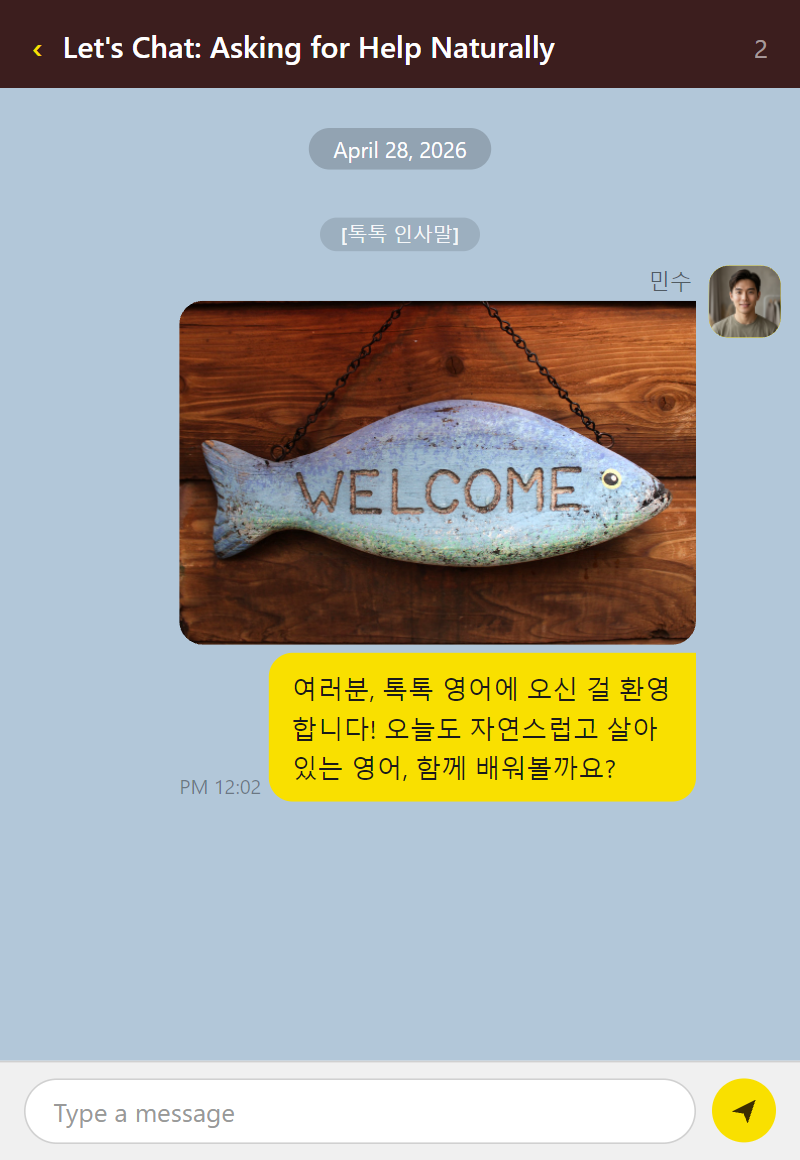
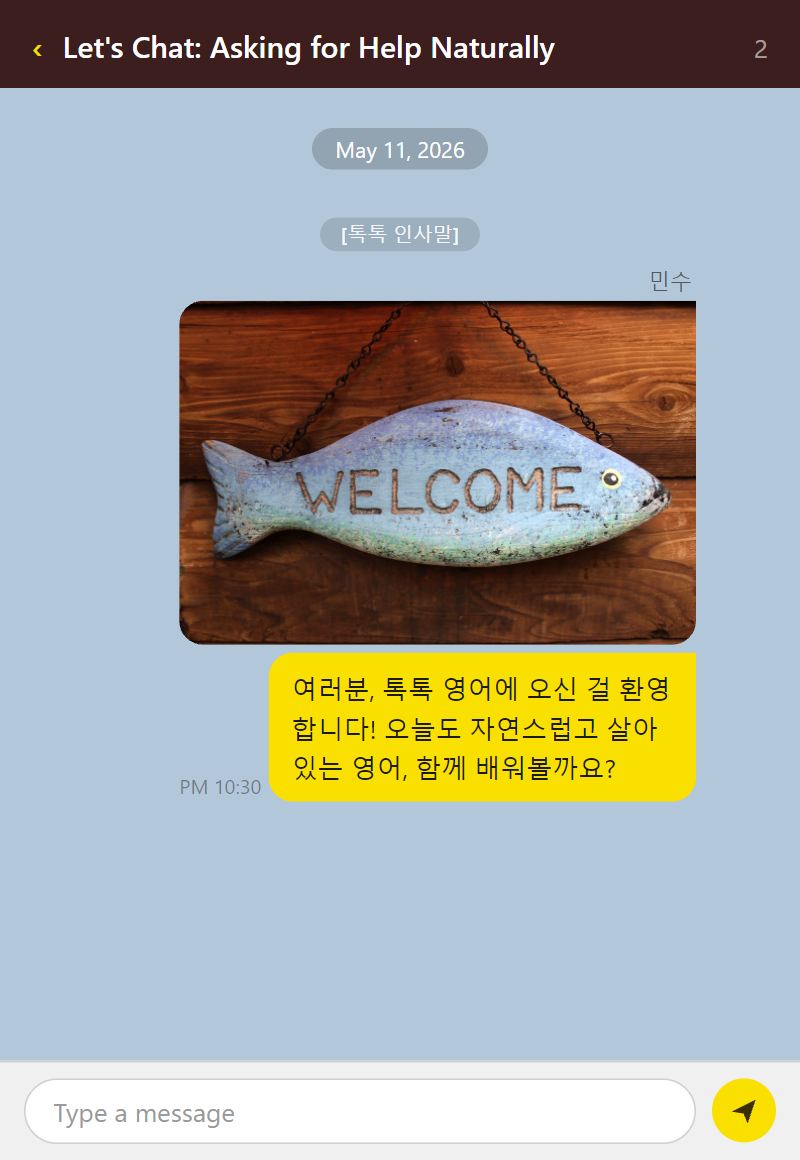
Refactor audio playback logic to streamline episode audio handling and improve dialogue timing

Changed region(s): [[0.875, 0.2172, 1.0, 0.3103], [0.4062, 0.1241, 0.5938, 0.1552], [0.2812, 0.6517, 0.3125, 0.6828]]

diff --git a/fixtures/preview/output.html b/fixtures/preview/output.html
@@ -161,7 +161,7 @@ const body = document.getElementById('chat-body');
 })();
 const ME = "host_1";
 const SHOW_AVATAR = true;
-const HOST_MAP = {"host_1":{"letter":"민","bg":"#f9e000","fg":"#3c2e00","image":"file:///C:/Workspace/Personal/playchat/resources/avartar/host_male1.png"},"host_2":{"letter":"A","bg":"#ff7043","fg":"#fff","image":"file:///C:/Workspace/Personal/playchat/resources/avartar/host_female1.png"}};
+const HOST_MAP = {"host_1":{"letter":"민","bg":"#f9e000","fg":"#3c2e00","image":"","bubbleBg":"#f9e000","bubbleFg":"#1a1a1a"},"host_2":{"letter":"A","bg":"#ff7043","fg":"#fff","image":"","bubbleBg":"#fff","bubbleFg":"#1a1a1a"}};
 
 var _virtualClockMs = Date.now();
 function getTime(audioDurationSec) {
@@ -178,8 +178,8 @@ function getTime(audioDurationSec) {
 
 function avatarHTML(d) {
   var info = HOST_MAP[d.speaker] || { letter: d.name.charAt(0), bg: '#999', fg: '#fff', image: '' };
-  var image = info.image ? '<img class="avatar-image" src="' + info.image + '" onerror="this.remove()" />' : '';
-  return '<div class="avatar-col"><div class="avatar" style="background:' + info.bg + ';color:' + info.fg + '"><span class="avatar-letter">' + info.letter + '</span>' + image + '</div></div>';
+  if (!info.image) return '<div class="avatar-col"><div class="avatar"></div></div>';
+  return '<div class="avatar-col"><div class="avatar"><img class="avatar-image" src="' + info.image + '" onerror="this.remove()" /></div></div>';
 }
 
 function appendMsg(d) {
@@ -201,9 +201,11 @@ function appendMsg(d) {
   html += '<div class="msg-col' + (side === 'right' ? ' right' : '') + '">';
   if (SHOW_AVATAR) html += '<div class="sender-name' + (side === 'right' ? ' right' : '') + '">' + d.name + '</div>';
   if (d.image) html += '<img class="bubble-img ' + side + '" src="' + d.image + '" onerror="this.remove()" />';
+  var bInfo = HOST_MAP[d.speaker] || { bubbleBg: '', bubbleFg: '' };
+  var bStyle = bInfo.bubbleBg ? 'background:' + bInfo.bubbleBg + ';color:' + bInfo.bubbleFg : '';
   html +=
       '<div class="bubble-wrap' + (side === 'right' ? ' right' : '') + '">' +
-        '<div class="bubble ' + side + ' pop">' + d.text + '</div>' +
+        '<div class="bubble ' + side + ' pop" style="' + bStyle + '">' + d.text + '</div>' +
         '<span class="time-stamp">' + t + '</span>' +
       '</div>' +
     '</div>';
@@ -214,11 +216,50 @@ function appendMsg(d) {
 }
 
 
-const dialogues = [{"speaker":"host_1","name":"민수","text":"여러분, 톡톡 영어에 오신 걸 환영합니다! 오늘도 자연스럽고 살아있는 영어, 함께 배워볼까요?","audio":"https://storage.googleapis.com/maplesoup-stroage-bucket/f/podcast/cc244236af424699/segment_0000.mp3","audioRaw":"https://storage.googleapis.com/maplesoup-stroage-bucket/f/podcast/cc244236af424699/segment_0000.mp3","section":"[톡톡 인사말]","audioDurationSec":8.208,"image":"file:///C:/Workspace/Personal/playchat/_audio_cache/85e1894b6eae4e46.jpg","imageRaw":"https://live.staticflickr.com/5145/5851641484_36762ab9af_b.jpg"},{"speaker":"host_2","name":"Ashley","text":"Hi everyone! Today's phrase is all about asking for help in a very natural way. Let's get started!","audio":"https://storage.googleapis.com/maplesoup-stroage-bucket/f/podcast/c771c9018d984cbc/segment_0001.mp3","audioRaw":"https://storage.googleapis.com/maplesoup-stroage-bucket/f/podcast/c771c9018d984cbc/segment_0001.mp3","section":"[톡톡 인사말]","audioDurationSec":5.568,"image":"","imageRaw":""},{"speaker":"host_1","name":"민수","text":"Oh, 제일 필요한 표현인데요! 오늘의 표현은 'Could you give me a hand?'예요.","audio":"https://storage.googleapis.com/maplesoup-stroage-bucket/f/podcast/4d268c8faf774183/segment_0002.mp3","audioRaw":"https://storage.googleapis.com/maplesoup-stroage-bucket/f/podcast/4d268c8faf774183/segment_0002.mp3","section":"[톡톡 인사말]","audioDurationSec":5.664,"image":"","imageRaw":""},{"speaker":"host_1","name":"민수","text":"Ashley, 오늘 짐 옮기는데 좀 도와줄 수 있어요? 무거워서 혼자 못 하겠어요.","audio":"https://storage.googleapis.com/maplesoup-stroage-bucket/f/podcast/ee016cde93ea4f05/segment_0004.mp3","audioRaw":"https://storage.googleapis.com/maplesoup-stroage-bucket/f/podcast/ee016cde93ea4f05/segment_0004.mp3","section":"[실전 영어 상황극]","audioDurationSec":6.096,"image":"","imageRaw":""},{"speaker":"host_2","name":"Ashley","text":"Sure! That's when you can say, 'Could you give me a hand with this?' Let me help you.","audio":"https://storage.googleapis.com/maplesoup-stroage-bucket/f/podcast/803591e8239d4493/segment_0005.mp3","audioRaw":"https://storage.googleapis.com/maplesoup-stroage-bucket/f/podcast/803591e8239d4493/segment_0005.mp3","section":"[실전 영어 상황극]","audioDurationSec":3.888,"image":"","imageRaw":""}];
+const dialogues = [{"speaker":"host_1","name":"민수","text":"여러분, 톡톡 영어에 오신 걸 환영합니다! 오늘도 자연스럽고 살아있는 영어, 함께 배워볼까요?","audio":"https://storage.googleapis.com/maplesoup-stroage-bucket/f/podcast/cc244236af424699/segment_0000.mp3","audioRaw":"https://storage.googleapis.com/maplesoup-stroage-bucket/f/podcast/cc244236af424699/segment_0000.mp3","section":"[톡톡 인사말]","audioDurationSec":6.5,"image":"file:///C:/Users/alexlee/AppData/Roaming/playchat/cache/85e1894b6eae4e46.jpg","imageRaw":"https://live.staticflickr.com/5145/5851641484_36762ab9af_b.jpg","timeStartSec":8,"timeEndSec":14.5},{"speaker":"host_2","name":"Ashley","text":"Hi everyone! Today's phrase is all about asking for help in a very natural way. Let's get started!","audio":"https://storage.googleapis.com/maplesoup-stroage-bucket/f/podcast/c771c9018d984cbc/segment_0001.mp3","audioRaw":"https://storage.googleapis.com/maplesoup-stroage-bucket/f/podcast/c771c9018d984cbc/segment_0001.mp3","section":"[톡톡 인사말]","audioDurationSec":5.399999999999999,"image":"","imageRaw":"","timeStartSec":14.8,"timeEndSec":20.2},{"speaker":"host_1","name":"민수","text":"Oh, 제일 필요한 표현인데요! 오늘의 표현은 'Could you give me a hand?'예요.","audio":"https://storage.googleapis.com/maplesoup-stroage-bucket/f/podcast/4d268c8faf774183/segment_0002.mp3","audioRaw":"https://storage.googleapis.com/maplesoup-stroage-bucket/f/podcast/4d268c8faf774183/segment_0002.mp3","section":"[톡톡 인사말]","audioDurationSec":5.5,"image":"","imageRaw":"","timeStartSec":20.5,"timeEndSec":26},{"speaker":"host_1","name":"민수","text":"Ashley, 오늘 짐 옮기는데 좀 도와줄 수 있어요? 무거워서 혼자 못 하겠어요.","audio":"https://storage.googleapis.com/maplesoup-stroage-bucket/f/podcast/ee016cde93ea4f05/segment_0004.mp3","audioRaw":"https://storage.googleapis.com/maplesoup-stroage-bucket/f/podcast/ee016cde93ea4f05/segment_0004.mp3","section":"[실전 영어 상황극]","audioDurationSec":5.699999999999999,"image":"","imageRaw":"","timeStartSec":26.3,"timeEndSec":32},{"speaker":"host_2","name":"Ashley","text":"Sure! That's when you can say, 'Could you give me a hand with this?' Let me help you.","audio":"https://storage.googleapis.com/maplesoup-stroage-bucket/f/podcast/803591e8239d4493/segment_0005.mp3","audioRaw":"https://storage.googleapis.com/maplesoup-stroage-bucket/f/podcast/803591e8239d4493/segment_0005.mp3","section":"[실전 영어 상황극]","audioDurationSec":5.700000000000003,"image":"","imageRaw":"","timeStartSec":32.3,"timeEndSec":38}];
 const TOTAL = dialogues.length;
 let idx = 0, isPlaying = false, currentAudio = null;
 let lastSection = "[톡톡 인사말]";
 const POST_AUDIO_GAP_MS = 400;
+const EPISODE_AUDIO_URL = "https://storage.googleapis.com/maplesoup-stroage-bucket/f/podcast/5031974702cb4a24/episode.mp3";
+const IS_EPISODE_AUDIO = true;
+
+// ── Episode-audio preview mode ──────────────────────────────────────────────
+// Plays a single audio file; shows bubbles when currentTime reaches each
+// dialogue's timeStartSec.
+
+function playEpisodeAudio() {
+  var audio = new Audio(EPISODE_AUDIO_URL);
+  var nextIdx = 0;
+  audio.addEventListener('timeupdate', function() {
+    var t = audio.currentTime;
+    while (nextIdx < TOTAL && dialogues[nextIdx].timeStartSec <= t) {
+      appendMsg(dialogues[nextIdx]);
+      nextIdx++;
+    }
+    if (nextIdx >= TOTAL) {
+      document.body.dataset.done = '1';
+    }
+  });
+  audio.addEventListener('ended', function() {
+    // Flush any remaining dialogues
+    while (nextIdx < TOTAL) {
+      appendMsg(dialogues[nextIdx]);
+      nextIdx++;
+    }
+    document.body.dataset.done = '1';
+  });
+  audio.onerror = function() {
+    console.warn('Episode audio failed to load, falling back to per-dialogue mode');
+    playNext();
+  };
+  audio.play().catch(function() {
+    console.warn('Episode audio play() rejected, falling back to per-dialogue mode');
+    playNext();
+  });
+}
+
+// ── Per-dialogue preview mode ───────────────────────────────────────────────
 
 function playNext() {
   if (idx >= TOTAL) {
@@ -280,7 +321,14 @@ window.addEventListener('load', function() {
   var autoplay = new URLSearchParams(location.search).get('autoplay');
   if (autoplay === '0') return;
 
-  setTimeout(function() { isPlaying = true; playNext(); }, 800);
+  setTimeout(function() {
+    isPlaying = true;
+    if (IS_EPISODE_AUDIO) {
+      playEpisodeAudio();
+    } else {
+      playNext();
+    }
+  }, 800);
 });
 
 </script>

diff --git a/cli.ts b/cli.ts
@@ -800,32 +800,32 @@ Examples:
   // display realistic timestamps (e.g. KakaoTalk's virtual clock).
   const useEpisodeAudio = isEpisodeAudioMode(dialogues) && !!episode.audio;
 
-  if (doRecord || doRecordFull) {
-    if (useEpisodeAudio) {
-      // Episode-audio mode: durations come from time_start / time_end.
-      // No need to download per-dialogue audio clips.
-      for (const d of dialogues) {
-        d.audioDurationSec = d.timeEndSec - d.timeStartSec;
-      }
-    } else {
-      const remoteAudioMap = await resolveRemoteAudio(dialogues);
-      const localPaths: (string | null)[] = dialogues.map((d) => {
-        const raw = d.audioRaw || d.audio;
-        if (!raw) return null;
-        if (/^https?:\/\//i.test(raw)) return remoteAudioMap.get(raw) ?? null;
-        const local = toLocalPath(raw);
-        return local && fs.existsSync(local) ? local : null;
-      });
-      const durations = await Promise.all(
-        localPaths.map((p) => (p ? getAudioDurationSecAsync(p) : Promise.resolve(0)))
-      );
-      for (let i = 0; i < dialogues.length; i++) {
-        dialogues[i].audioDurationSec = durations[i];
-      }
-      // Store the map so we don't re-download later
-      precomputedRemoteAudioMap = remoteAudioMap;
+  if (useEpisodeAudio) {
+    // Episode-audio mode: durations come from time_start / time_end.
+    // No need to download per-dialogue audio clips.
+    for (const d of dialogues) {
+      d.audioDurationSec = d.timeEndSec - d.timeStartSec;
     }
+  } else {
+    const remoteAudioMap = await resolveRemoteAudio(dialogues);
+    const localPaths: (string | null)[] = dialogues.map((d) => {
+      const raw = d.audioRaw || d.audio;
+      if (!raw) return null;
+      if (/^https?:\/\//i.test(raw)) return remoteAudioMap.get(raw) ?? null;
+      const local = toLocalPath(raw);
+      return local && fs.existsSync(local) ? local : null;
+    });
+    const durations = await Promise.all(
+      localPaths.map((p) => (p ? getAudioDurationSecAsync(p) : Promise.resolve(0)))
+    );
+    for (let i = 0; i < dialogues.length; i++) {
+      dialogues[i].audioDurationSec = durations[i];
+    }
+    // Store the map so we don't re-download later
+    precomputedRemoteAudioMap = remoteAudioMap;
+  }
 
+  if (doRecord || doRecordFull) {
     // Pre-download remote images and rewrite d.image to file:/// so Puppeteer
     // can load them instantly without waiting on network requests at screenshot time.
     const remoteImageMap = await resolveRemoteImages(dialogues, episode.hosts);
